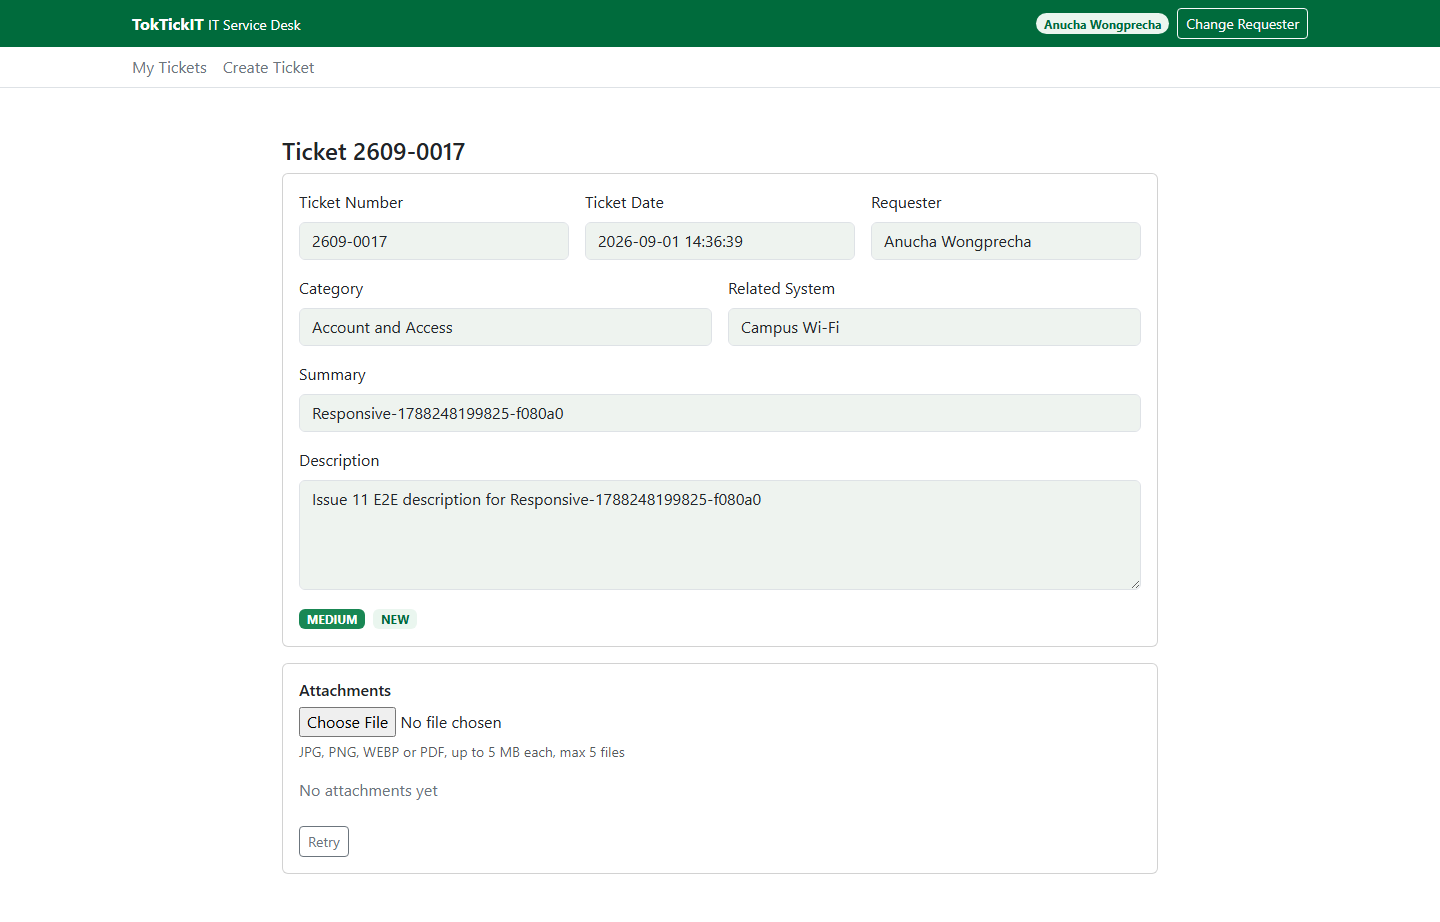
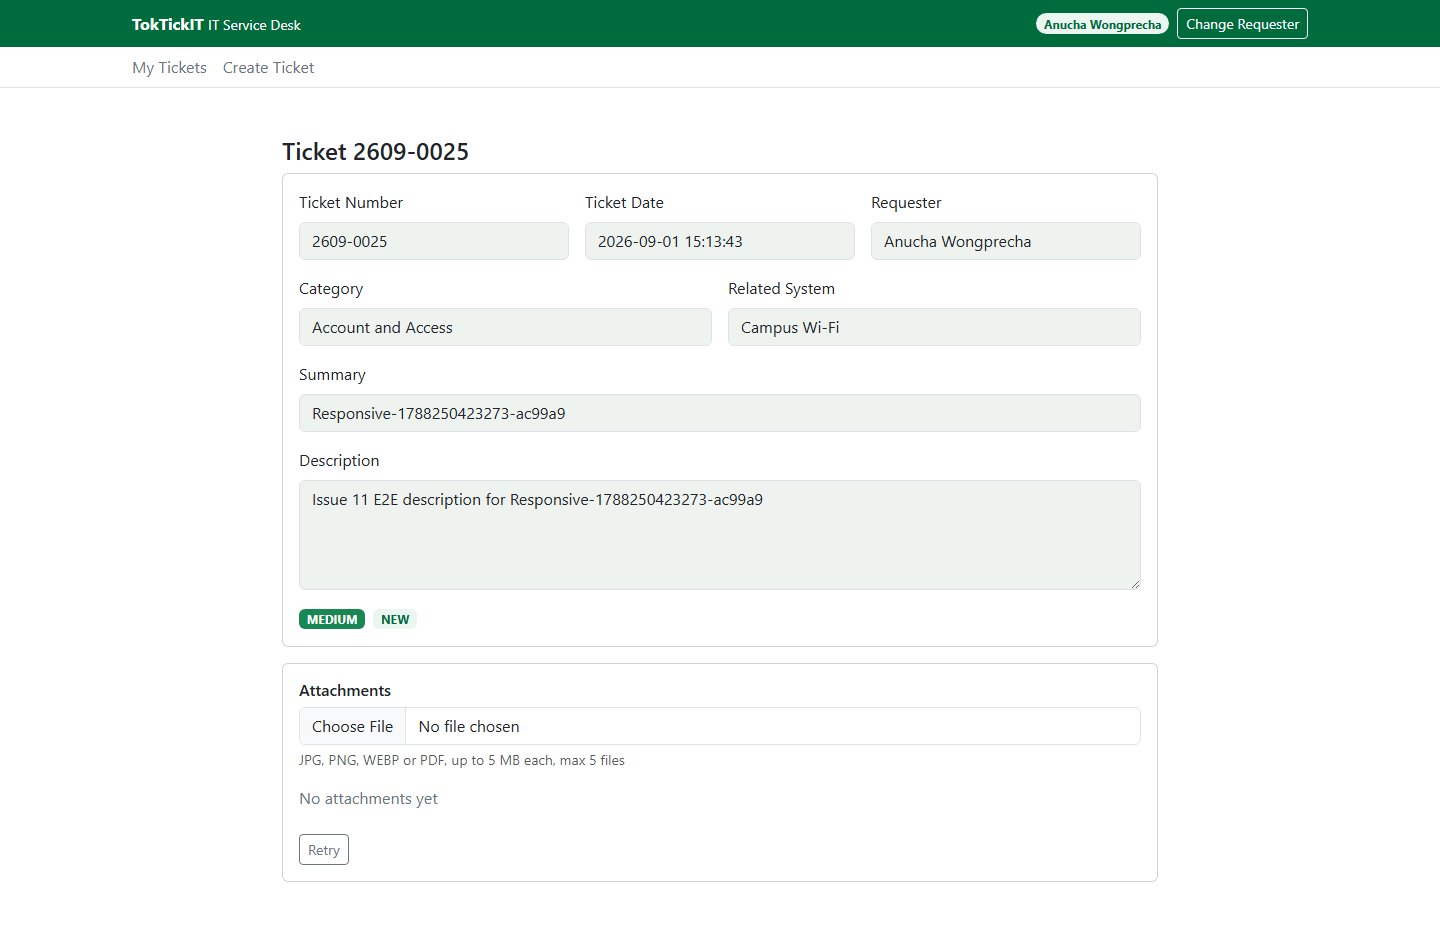
fix(e2e): prevent mobile overflow and stabilize create flow

diff --git a/e2e/lab-02/requester-ticket-flow.spec.ts b/e2e/lab-02/requester-ticket-flow.spec.ts
@@ -93,10 +93,18 @@ test("E2E-01 select requester -> create -> search -> open detail", async ({ page
   await page.getByLabel("Requested Priority").selectOption("HIGH");
   await page.getByLabel("Summary").fill(summary);
   await page.getByLabel("Description").fill(`The printer cannot complete a job for marker ${marker}.`);
-  await page.getByRole("button", { name: "Submit Ticket" }).click();
+  const [createResponse] = await Promise.all([
+    page.waitForResponse(
+      (response) =>
+        response.url() === `${API_URL}/api/tickets` &&
+        response.request().method() === "POST",
+    ),
+    page.getByRole("button", { name: "Submit Ticket" }).click(),
+  ]);
+  expect(createResponse.status()).toBe(201);
 
   const ticketNumberText = page.getByText(/Official Ticket Number:/);
-  await expect(ticketNumberText).toBeVisible();
+  await expect(ticketNumberText).toBeVisible({ timeout: 10_000 });
   const ticketNumber = (await ticketNumberText.locator("strong").textContent())?.trim();
   expect(ticketNumber).toMatch(/^\d{4}-\d{4}$/);
 

diff --git a/client/src/components/AttachmentSection.tsx b/client/src/components/AttachmentSection.tsx
@@ -68,7 +68,7 @@ export default function AttachmentSection({
         <h2 className="h6">Attachments</h2>
         {canUpload ? (
           <div className="mb-3">
-            <input type="file" accept=".jpg,.jpeg,.png,.webp,.pdf" onChange={handleFileChange} aria-label="Choose file" disabled={!!uploadingFilename} />
+            <input className="form-control" type="file" accept=".jpg,.jpeg,.png,.webp,.pdf" onChange={handleFileChange} aria-label="Choose file" disabled={!!uploadingFilename} />
             <div className="form-text">JPG, PNG, WEBP or PDF, up to 5 MB each, max 5 files</div>
           </div>
         ) : (

diff --git a/client/src/features/lab-02/tests/AttachmentSection.test.tsx b/client/src/features/lab-02/tests/AttachmentSection.test.tsx
@@ -45,6 +45,7 @@ describe("AttachmentSection", () => {
     expect(screen.getByRole("button", { name: "Download" })).toBeInTheDocument();
     expect(screen.getByRole("button", { name: "Remove" })).toBeInTheDocument();
     expect(screen.getByLabelText("Choose file")).toBeInTheDocument();
+    expect(screen.getByLabelText("Choose file")).toHaveClass("form-control");
   });
 
   it("Removed shows struck-through and no Download", () => {
